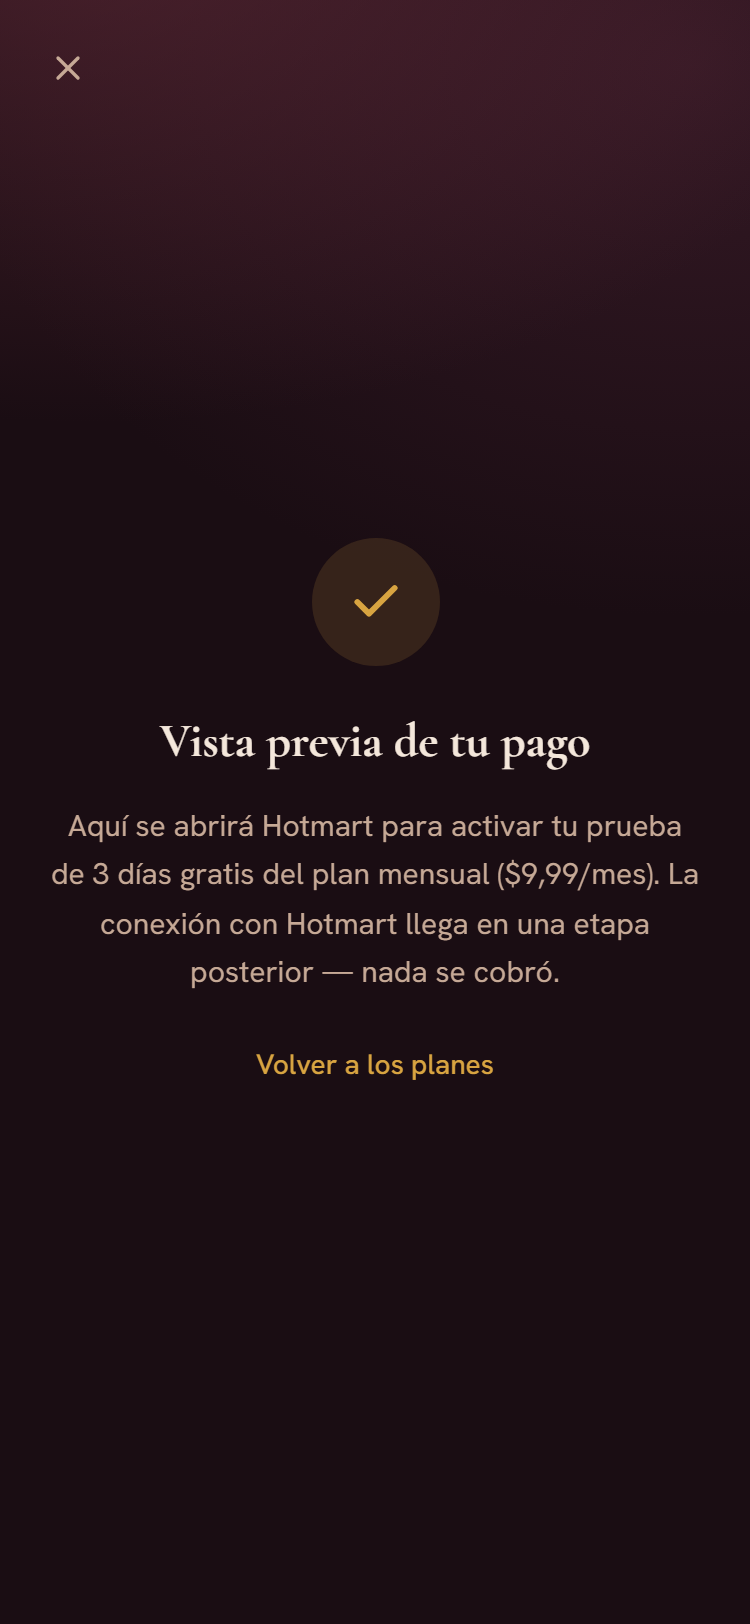
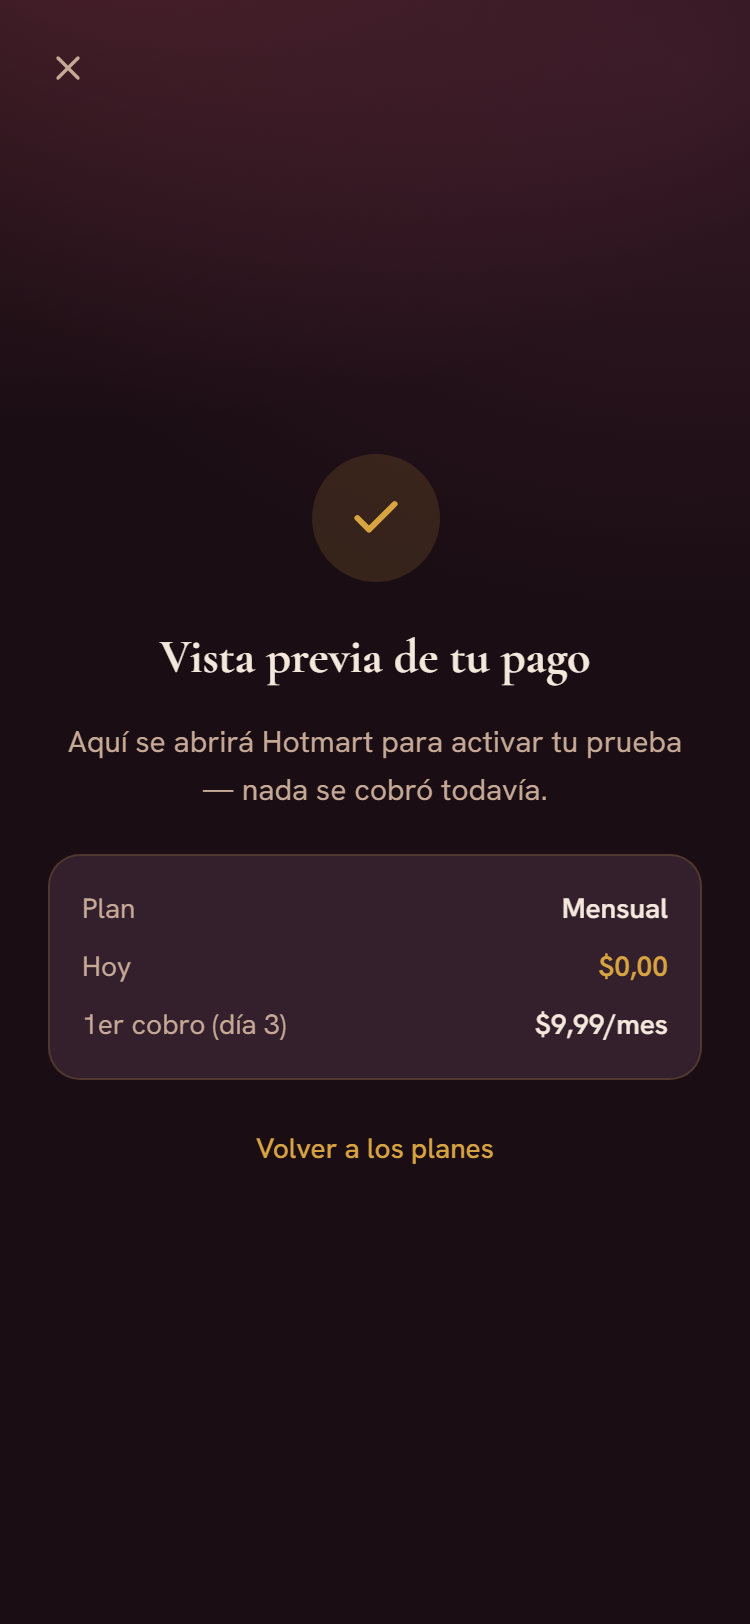
fix(sesion-4): paywall — corrige defectos de la 5a revision + construye /entrar
Craft (16/20) y Copy (19/20) ya pasan su umbral; solo falta usabilidad
(31/40, se exige >=36). Fixes de esta ronda:

- Construye app/entrar/page.tsx (Sesion 4, paso 3 — spec E de
  50-DISENO-ONBOARDING-PAYWALL.md): magic link por email + boton de
  Google (con aviso honesto de que se activa mas adelante) + estado
  "enviado" con countdown de reenvio de 60s. Resuelve un 404 REAL que
  tenia "Restaurar compra" del paywall (verificado en codigo por el
  revisor: app/entrar/page.tsx no existia)
- Paywall: fila de confianza ("Pago seguro con Hotmart · Garantia...")
  ahora usa flex-wrap + pares icono+texto en whitespace-nowrap — antes
  se cortaba a media palabra en mobile
- Paywall: "Restaurar compra" gana mas peso visual que "Ahora no"
  (semibold + text-secondary vs medium + tertiary) — antes ambos
  parecian la misma accion pese a consecuencias muy distintas
- Paywall, pantalla "confirmado": agrega mini-resumen del pedido (plan,
  $0 hoy, 1er cobro con fecha relativa) en vez de solo un parrafo de texto

Se limpio un problema de entorno detectado en el camino: el dev server
arrancaba justo despues de un `npm run build` y Turbopack se confundia
con el cache mixto de .next, devolviendo 404 real en rutas que si existian
(verificado con `npm run build` limpio, que si las listaba) — se resolvio
borrando .next antes de levantar dev. No es un bug de codigo del proyecto.

Changed region(s): [[0.0613, 0.2771, 0.9507, 0.6773], [0.552, 0.7081, 0.5827, 0.7389]]

diff --git a/app/entrar/page.tsx b/app/entrar/page.tsx
@@ -1,0 +1,162 @@
+'use client';
+
+// LUMA — Entrar (Sesión 4, paso 3 de la SECUENCIA MAESTRA). Blueprint:
+// docs/sistema/50-DISENO-ONBOARDING-PAYWALL.md §E. Magic link por email como
+// método primario (26-AUTH-MODERNO, decisión Hotmart-first) — sin contraseñas.
+// Existe ahora (mínima pero real) para que "Entrar"/"Restaurar compra" del
+// resto del funnel dejen de caer en 404 — el envío real de magic link y el
+// login con Google llegan con Supabase en Sesión 6 (mismo patrón C3ter que
+// el paywall: simula el flujo con estado local, nunca finge un envío real).
+
+import { useEffect, useState } from 'react';
+import { motion, useReducedMotion } from 'motion/react';
+import { Mail } from 'lucide-react';
+
+type Estado = 'reposo' | 'enviando' | 'enviado' | 'error';
+
+const REENVIAR_SEGUNDOS = 60;
+
+export default function EntrarLuma() {
+  const reduce = useReducedMotion();
+  const [email, setEmail] = useState('');
+  const [estado, setEstado] = useState<Estado>('reposo');
+  const [segundosRestantes, setSegundosRestantes] = useState(0);
+  const [avisoGoogle, setAvisoGoogle] = useState(false);
+
+  useEffect(() => {
+    if (segundosRestantes <= 0) return;
+    const id = window.setTimeout(() => setSegundosRestantes((s) => s - 1), 1000);
+    return () => window.clearTimeout(id);
+  }, [segundosRestantes]);
+
+  function enviar() {
+    if (!email.includes('@')) {
+      setEstado('error');
+      return;
+    }
+    setEstado('enviando');
+    window.setTimeout(() => {
+      setEstado('enviado');
+      setSegundosRestantes(REENVIAR_SEGUNDOS);
+    }, 700);
+  }
+
+  if (estado === 'enviado') {
+    return (
+      <div className="flex min-h-dvh flex-col items-center justify-center px-6 text-center [font-family:var(--font-body)]">
+        <motion.div
+          initial={{ opacity: 0, scale: reduce ? 1 : 0.9 }}
+          animate={{ opacity: 1, scale: 1 }}
+          transition={{ duration: reduce ? 0.2 : 0.4, ease: [0.16, 1, 0.3, 1] }}
+          className="flex max-w-[340px] flex-col items-center"
+        >
+          <span
+            aria-hidden="true"
+            className="flex size-16 items-center justify-center rounded-full bg-[color-mix(in_oklab,var(--accent)_15%,transparent)]"
+          >
+            <Mail size={26} strokeWidth={2} color="var(--accent)" aria-hidden="true" />
+          </span>
+          <h1 className="mt-5 text-[24px] font-bold text-[var(--text-primary)] [font-family:var(--font-display)]">
+            Revisa tu correo
+          </h1>
+          <p className="mt-3 text-[15px] leading-relaxed text-[var(--text-secondary)]">
+            Te enviaríamos el enlace de acceso a <strong className="text-[var(--text-primary)]">{email}</strong>. El
+            envío real se activa al conectar el sistema de cuentas — nada se envió todavía.
+          </p>
+          <button
+            type="button"
+            disabled={segundosRestantes > 0}
+            onClick={() => {
+              setSegundosRestantes(REENVIAR_SEGUNDOS);
+            }}
+            className="mt-6 text-[14px] font-medium text-[var(--accent)] underline-offset-4 hover:underline disabled:text-[var(--text-tertiary)] disabled:no-underline"
+          >
+            {segundosRestantes > 0 ? `Reenviar en ${segundosRestantes}s` : 'Reenviar'}
+          </button>
+          <a href="/" className="mt-4 text-[13px] text-[var(--text-tertiary)] underline-offset-4 hover:underline">
+            Volver al inicio
+          </a>
+        </motion.div>
+      </div>
+    );
+  }
+
+  return (
+    <div className="flex min-h-dvh flex-col [font-family:var(--font-body)]">
+      <div className="mx-auto flex h-16 w-full max-w-[480px] items-center px-5">
+        <a href="/" className="flex items-center gap-2 text-[16px] font-semibold text-[var(--text-primary)]">
+          <span aria-hidden="true" className="size-6 rounded-[8px] bg-[var(--accent)]" />
+          LUMA
+        </a>
+      </div>
+
+      <div className="mx-auto flex w-full max-w-[480px] flex-1 flex-col px-5 pt-6">
+        <motion.div
+          initial={{ opacity: 0, y: reduce ? 0 : 10 }}
+          animate={{ opacity: 1, y: 0 }}
+          transition={{ duration: reduce ? 0.2 : 0.4, ease: [0.16, 1, 0.3, 1] }}
+        >
+          <h1 className="text-[26px] font-bold leading-[1.15] text-[var(--text-primary)] [font-family:var(--font-display)]">
+            Entra a tu plan
+          </h1>
+          <p className="mt-2 text-[14px] leading-snug text-[var(--text-secondary)]">
+            Para guardarlo y verlo en cualquier dispositivo.
+          </p>
+        </motion.div>
+
+        <motion.div
+          initial={{ opacity: 0, y: reduce ? 0 : 10 }}
+          animate={{ opacity: 1, y: 0 }}
+          transition={{ duration: reduce ? 0.2 : 0.4, delay: 0.05, ease: [0.16, 1, 0.3, 1] }}
+          className="mt-7 flex flex-col gap-3"
+        >
+          <input
+            type="email"
+            value={email}
+            onChange={(e) => {
+              setEmail(e.target.value);
+              if (estado === 'error') setEstado('reposo');
+            }}
+            placeholder="tu@correo.com"
+            autoFocus
+            className={`h-14 w-full rounded-[var(--radius-button)] border bg-[var(--surface)] px-4 text-[16px] text-[var(--text-primary)] outline-none placeholder:text-[var(--text-tertiary)] focus-visible:border-[var(--accent)] ${
+              estado === 'error'
+                ? 'border-[var(--accent-2)]'
+                : 'border-[color-mix(in_oklab,var(--accent)_28%,transparent)]'
+            }`}
+          />
+          {estado === 'error' && (
+            <p className="text-[13px] text-[var(--accent-2)]">Escribe un correo válido para continuar.</p>
+          )}
+
+          <motion.button
+            type="button"
+            onClick={enviar}
+            disabled={estado === 'enviando'}
+            whileTap={{ scale: 0.97 }}
+            className="flex h-[52px] w-full items-center justify-center rounded-[var(--radius-button)] bg-[var(--accent)] text-[16px] font-semibold text-[var(--bg)] transition-opacity duration-200 disabled:opacity-70 [touch-action:manipulation] focus-visible:outline-none focus-visible:ring-2 focus-visible:ring-[var(--accent)]"
+          >
+            {estado === 'enviando' ? 'Enviando…' : 'Enviarme mi enlace de acceso'}
+          </motion.button>
+
+          <button
+            type="button"
+            onClick={() => setAvisoGoogle(true)}
+            className="flex h-[52px] w-full items-center justify-center gap-2 rounded-[var(--radius-button)] border border-[color-mix(in_oklab,var(--text-tertiary)_28%,transparent)] text-[15px] font-medium text-[var(--text-primary)] [touch-action:manipulation] focus-visible:outline-none focus-visible:ring-2 focus-visible:ring-[var(--accent)]"
+          >
+            Continuar con Google
+          </button>
+          {avisoGoogle && (
+            <p className="text-center text-[13px] text-[var(--text-tertiary)]">
+              La entrada con Google se activa en una etapa posterior — usa tu correo por ahora.
+            </p>
+          )}
+
+          <p className="mt-1 text-center text-[13px] text-[var(--text-tertiary)]">
+            Sin contraseñas: te llegará un enlace de un solo uso
+          </p>
+        </motion.div>
+      </div>
+    </div>
+  );
+}

diff --git a/app/paywall/page.tsx b/app/paywall/page.tsx
@@ -96,10 +96,26 @@ export default function PaywallLuma() {
             Vista previa de tu pago
           </h1>
           <p className="mt-3 text-[15px] leading-relaxed text-[var(--text-secondary)]">
-            Aquí se abrirá Hotmart para activar tu prueba de {TRIAL_DIAS} días gratis del plan{' '}
-            {seleccionado === 'anual' ? 'anual' : 'mensual'} ({PRECIO_TEXTO[seleccionado]}). La conexión con Hotmart
-            llega en una etapa posterior — nada se cobró.
+            Aquí se abrirá Hotmart para activar tu prueba — nada se cobró todavía.
           </p>
+
+          <div className="mt-5 w-full rounded-[var(--radius-card)] border border-[color-mix(in_oklab,var(--accent)_18%,transparent)] bg-[var(--surface)] p-4 text-left">
+            <div className="flex items-center justify-between text-[14px]">
+              <span className="text-[var(--text-secondary)]">Plan</span>
+              <span className="font-semibold text-[var(--text-primary)]">
+                {seleccionado === 'anual' ? 'Anual' : 'Mensual'}
+              </span>
+            </div>
+            <div className="mt-2 flex items-center justify-between text-[14px]">
+              <span className="text-[var(--text-secondary)]">Hoy</span>
+              <span className="font-semibold text-[var(--accent)]">$0,00</span>
+            </div>
+            <div className="mt-2 flex items-center justify-between text-[14px]">
+              <span className="text-[var(--text-secondary)]">1er cobro (día {TRIAL_DIAS})</span>
+              <span className="font-semibold text-[var(--text-primary)]">{PRECIO_TEXTO[seleccionado]}</span>
+            </div>
+          </div>
+
           <button
             type="button"
             onClick={() => setConfirmado(false)}
@@ -245,27 +261,32 @@ export default function PaywallLuma() {
           <div className="mt-4 flex items-center justify-center gap-5">
             <a
               href="/"
-              className="text-[14px] font-medium text-[var(--text-tertiary)] underline-offset-4 hover:underline focus-visible:outline-none focus-visible:ring-2 focus-visible:ring-[var(--accent)]"
+              className="text-[13px] font-medium text-[var(--text-tertiary)] underline-offset-4 hover:underline focus-visible:outline-none focus-visible:ring-2 focus-visible:ring-[var(--accent)]"
             >
               Ahora no
             </a>
             <span aria-hidden="true" className="text-[var(--text-tertiary)]">
               ·
             </span>
+            {/* Más peso que "Ahora no": recuperar una compra ya hecha no es lo
+                mismo que abandonar el flujo (defecto de jerarquía de conversión). */}
             <a
               href="/entrar"
-              className="text-[14px] font-medium text-[var(--text-tertiary)] underline-offset-4 hover:underline focus-visible:outline-none focus-visible:ring-2 focus-visible:ring-[var(--accent)]"
+              className="text-[14px] font-semibold text-[var(--text-secondary)] underline-offset-4 hover:underline focus-visible:outline-none focus-visible:ring-2 focus-visible:ring-[var(--accent)]"
             >
               Restaurar compra
             </a>
           </div>
 
-          <p className="mt-5 flex items-center justify-center gap-1.5 text-[12px] text-[var(--text-tertiary)]">
-            <Lock size={14} aria-hidden="true" />
-            Pago seguro con Hotmart
-            <span aria-hidden="true">·</span>
-            <ShieldCheck size={14} aria-hidden="true" />
-            Garantía de Calma de 7 días
+          <p className="mt-5 flex flex-wrap items-center justify-center gap-x-4 gap-y-1 text-[12px] text-[var(--text-tertiary)]">
+            <span className="flex items-center gap-1.5 whitespace-nowrap">
+              <Lock size={14} aria-hidden="true" />
+              Pago seguro con Hotmart
+            </span>
+            <span className="flex items-center gap-1.5 whitespace-nowrap">
+              <ShieldCheck size={14} aria-hidden="true" />
+              Garantía de Calma de 7 días
+            </span>
           </p>
         </motion.div>
       </div>
